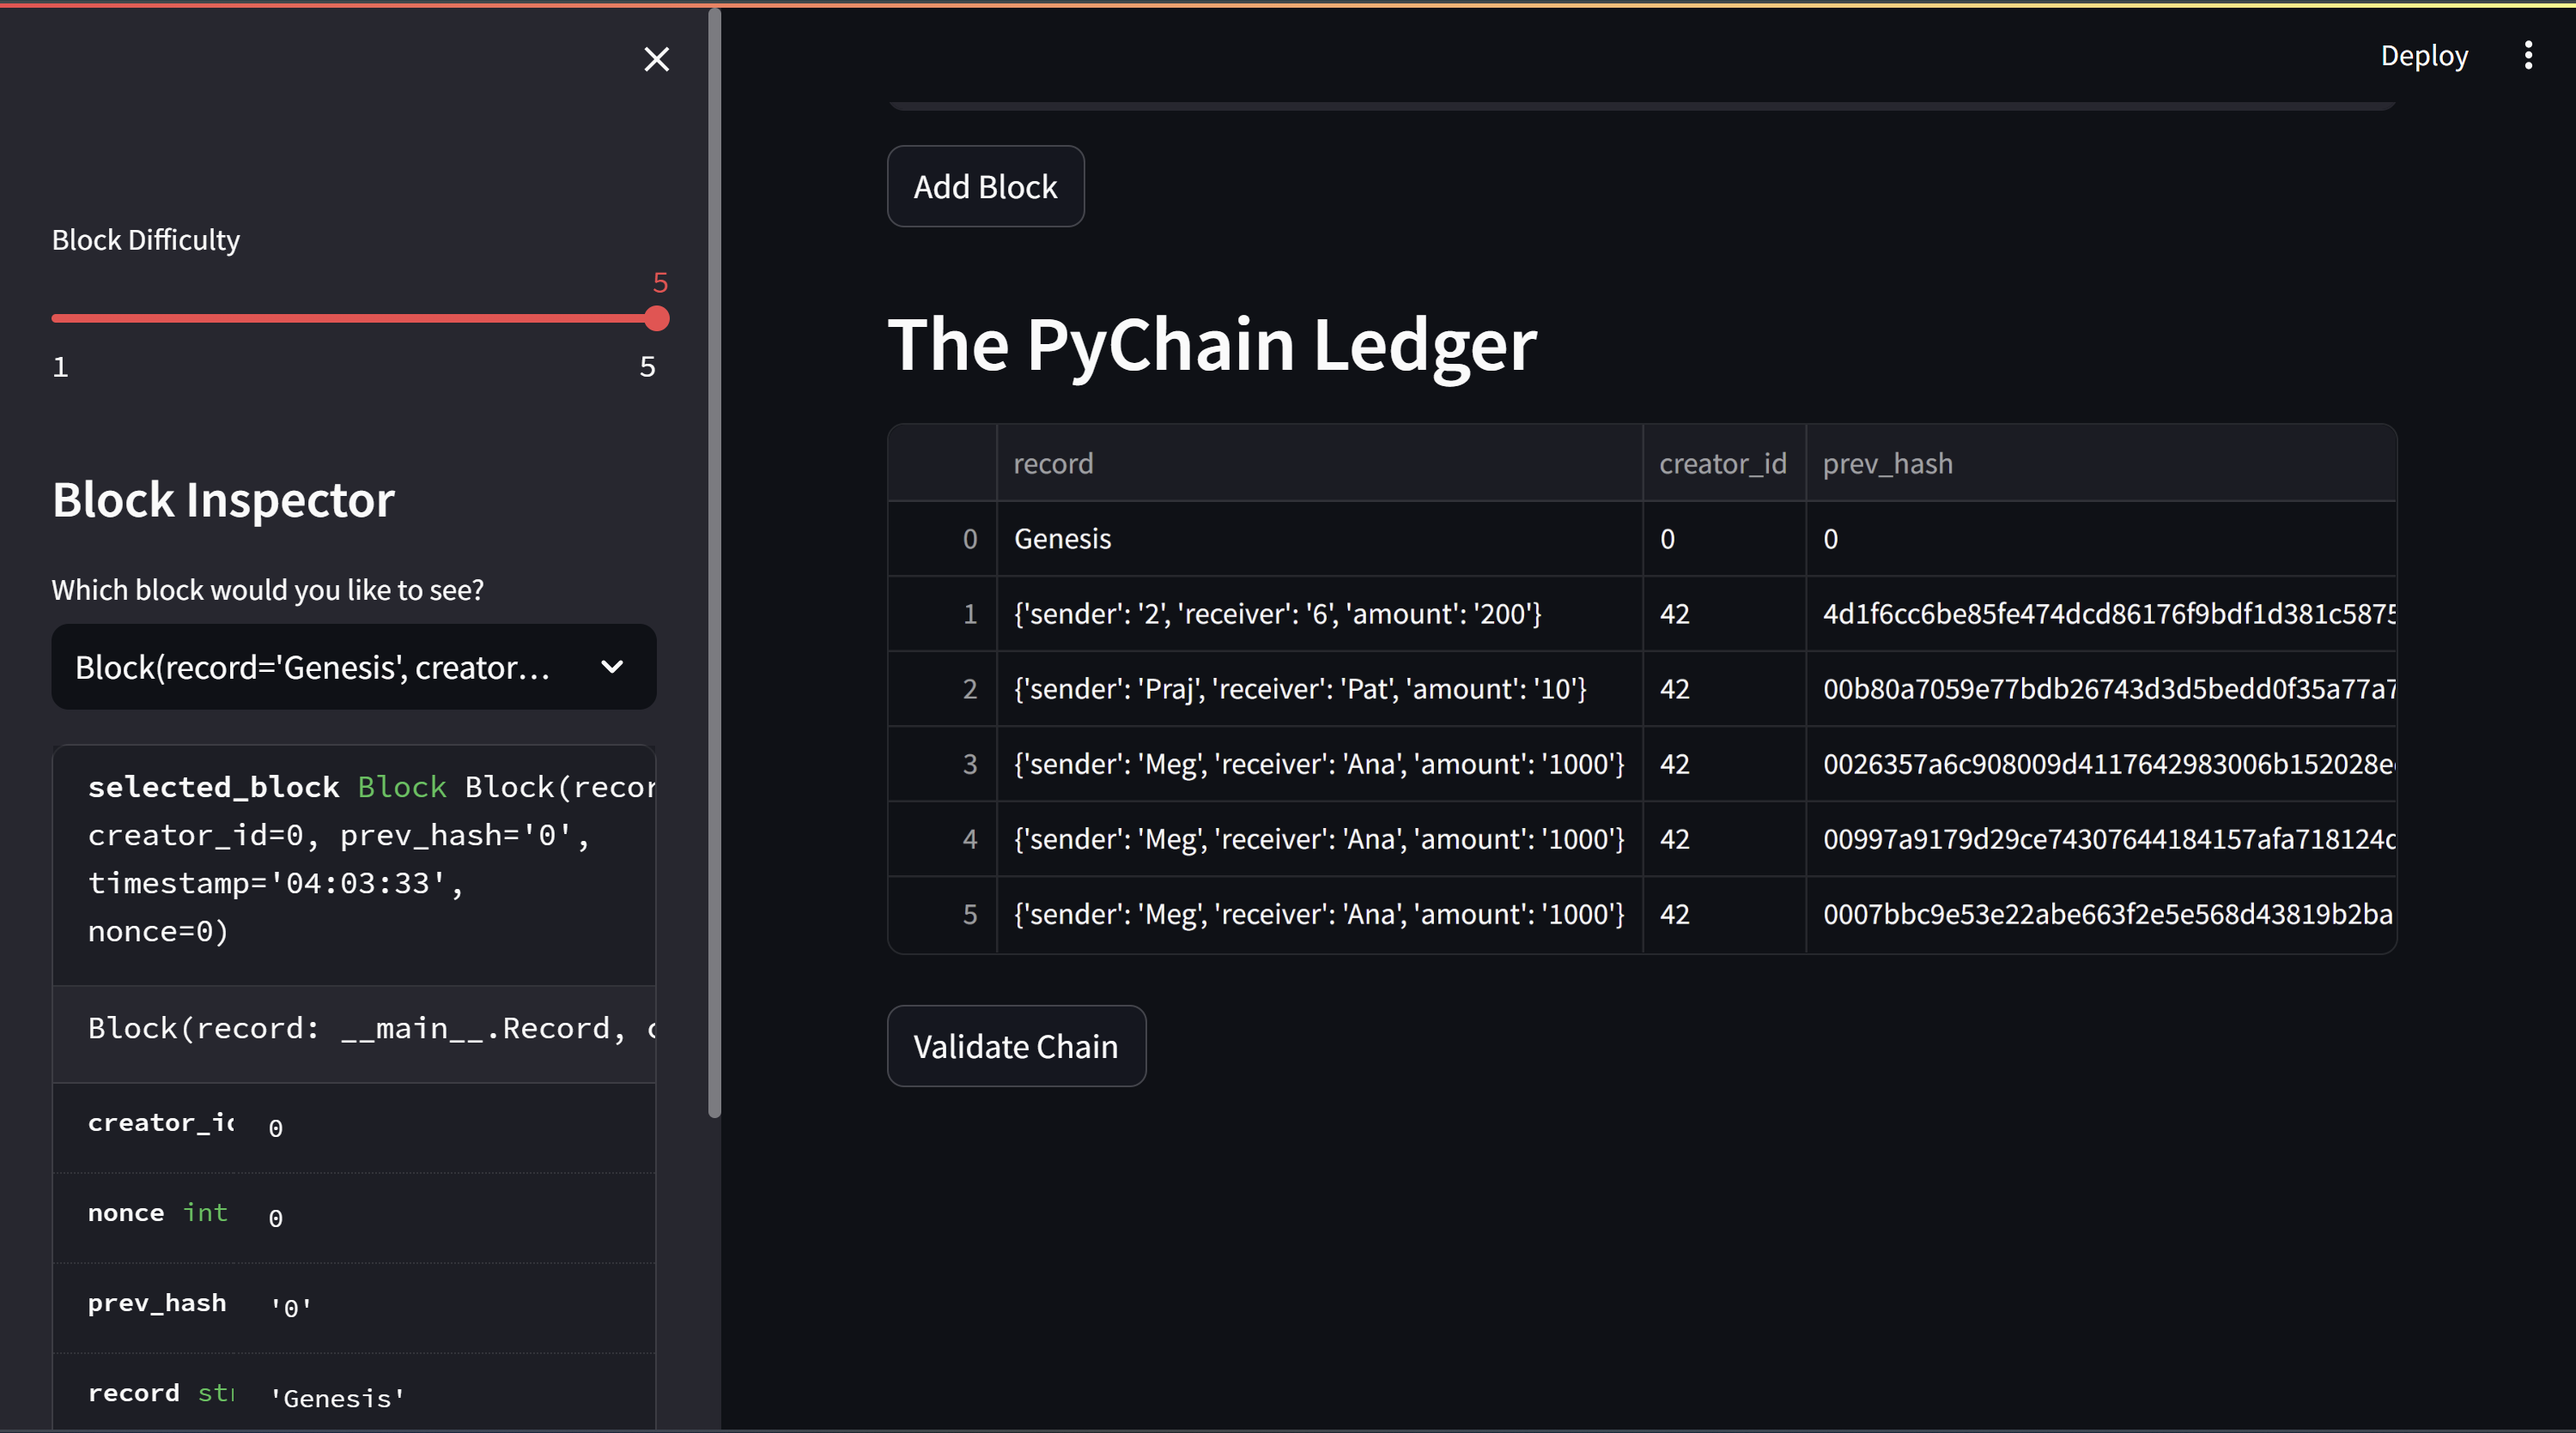
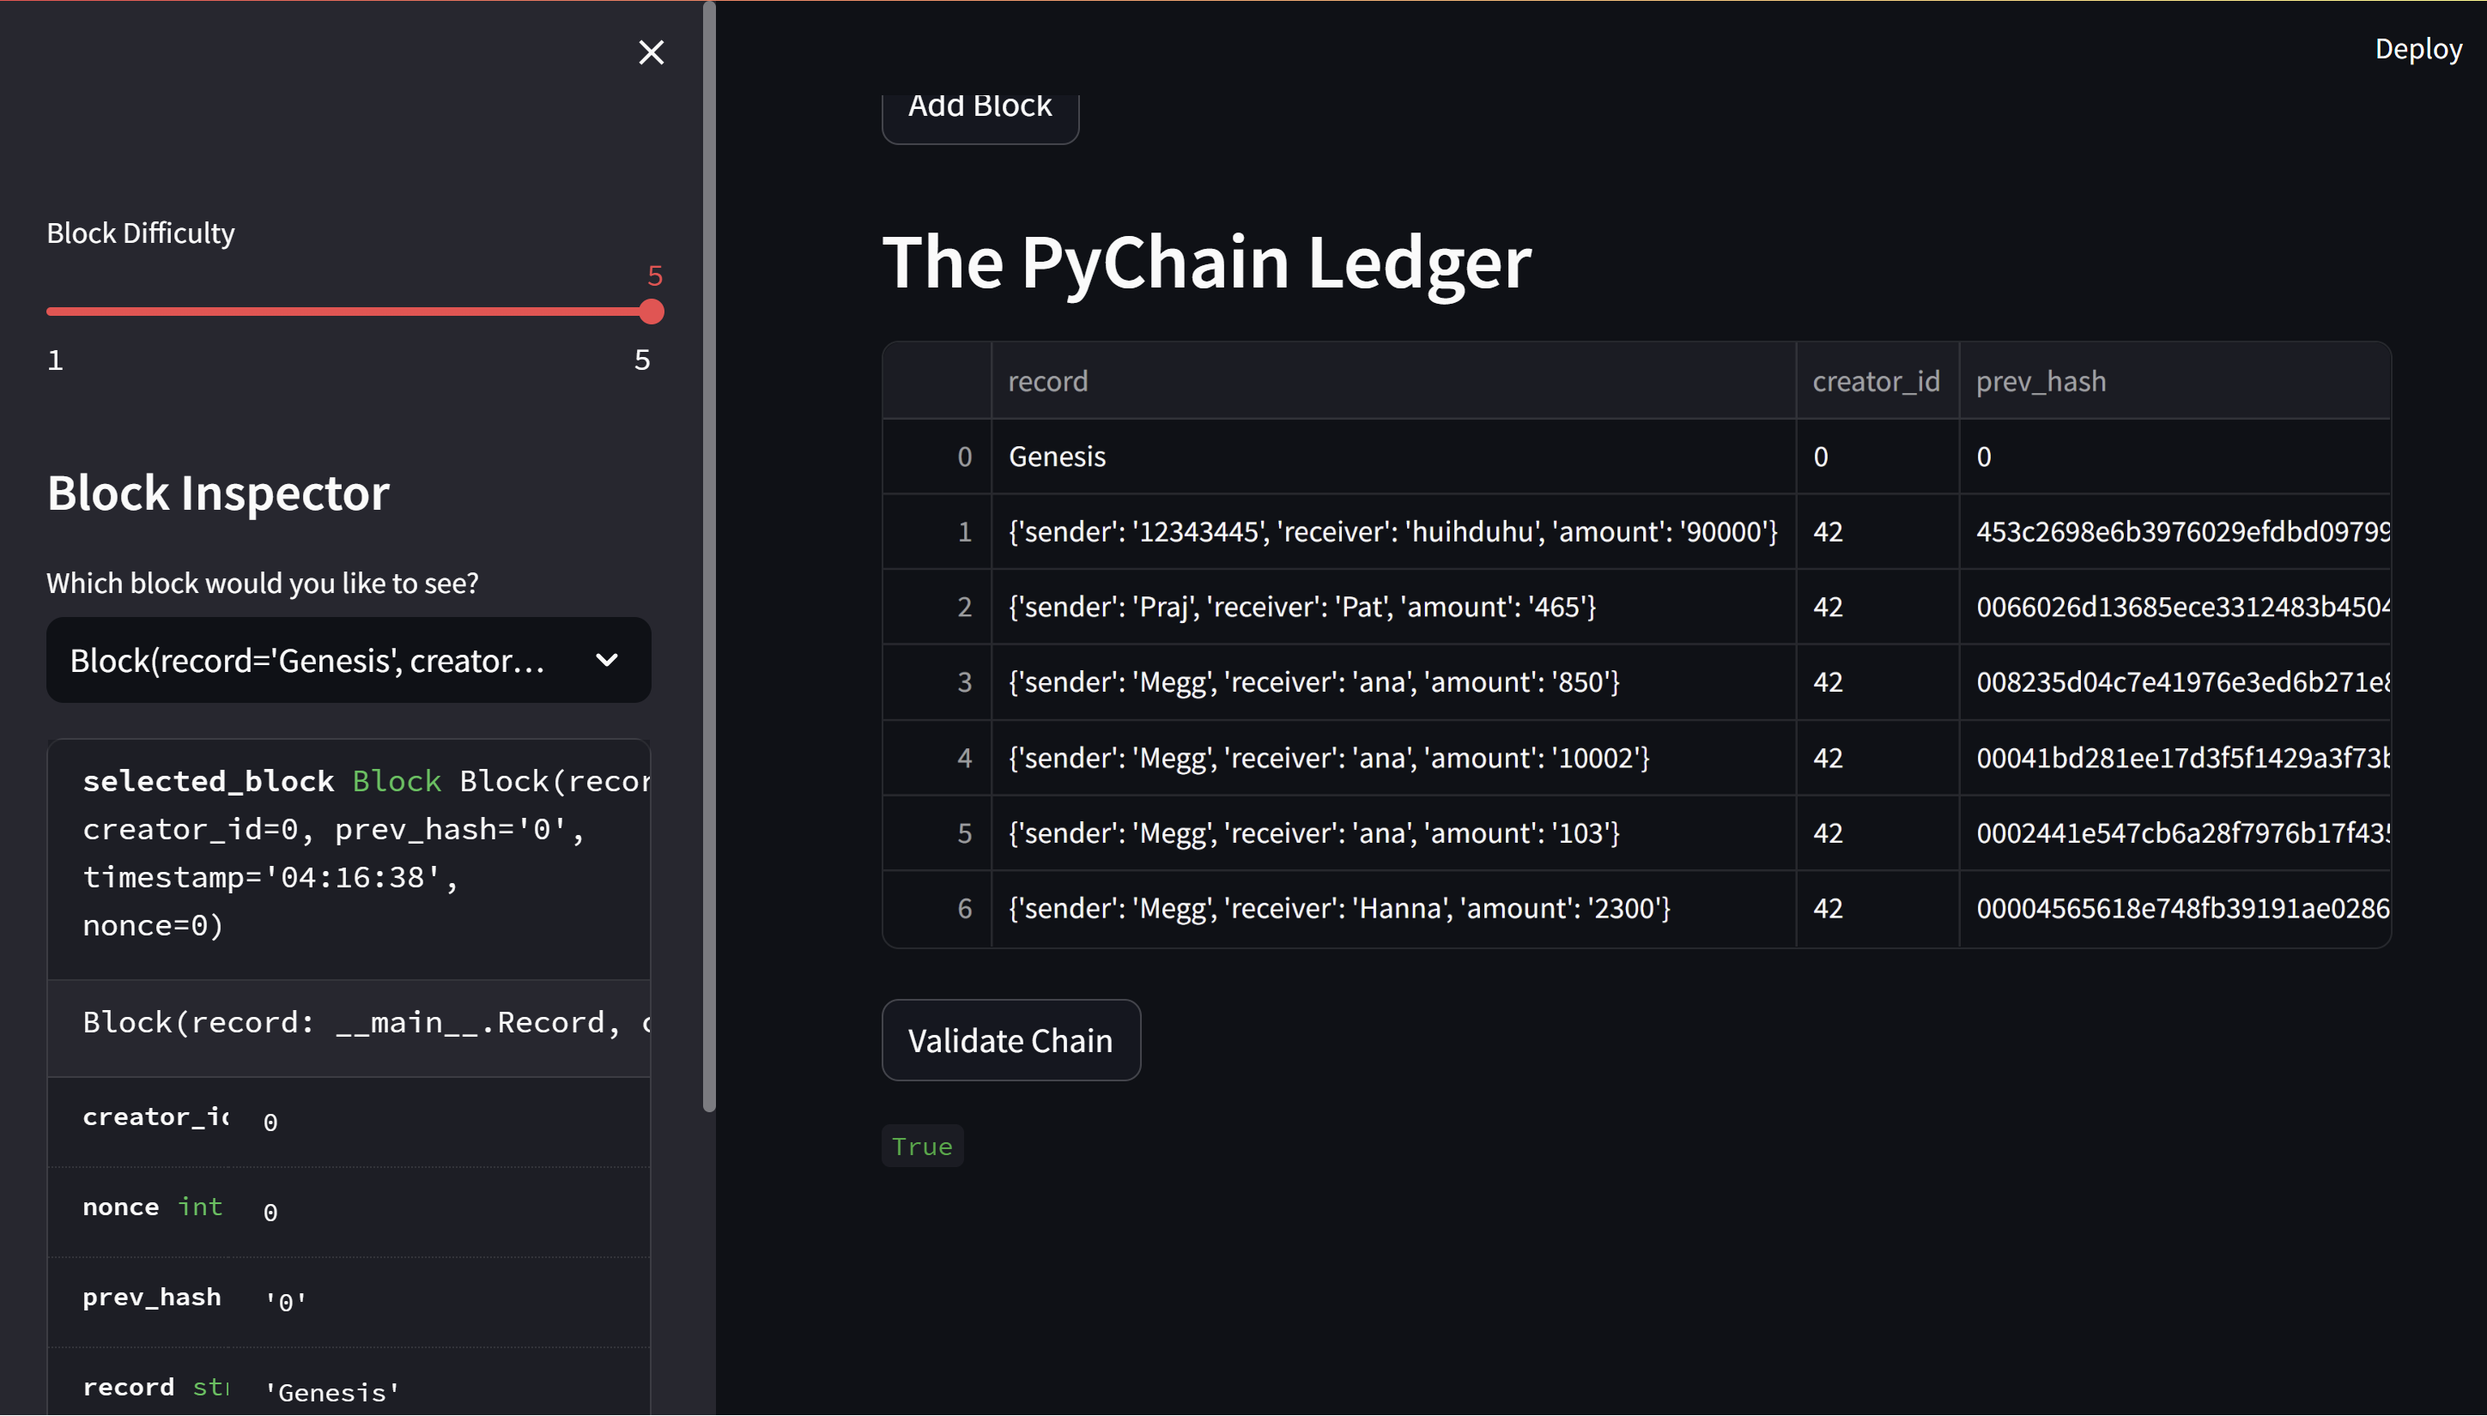
Final_2

diff --git a/README.md b/README.md
@@ -11,16 +11,17 @@ PyChain Ledger is a simple blockchain implementation built using Python and Stre
 * Enter sender, receiver, and amount for a transaction.
 Click "Add Block" to add the transaction to the blockchain.
 
-* View the PyChain Ledger and block details.
+* View the PyChain Ledger and block details. - Right side of the screenshot
 
-* Adjust block difficulty using the slider in the sidebar.
+* Adjust block difficulty using the slider in the sidebar. - Top Left of the screenshot. The difficulty was increased from 2 to 5 for the last sender and receiver with different amounts.
 
-* Select specific blocks for inspection in the Block Inspector.
+* Select specific blocks for inspection in the Block Inspector. - View the second screenshot.
 
-* PyChain Ledger App Screenshot
+* PyChain Ledger App Screenshots
 
 ![PyChain](./Images/app.png)
 
+![PyChain](./Images/app2.png)
 
 ## Notes:
 * Ensure that the sender and receiver addresses are valid inputs.
